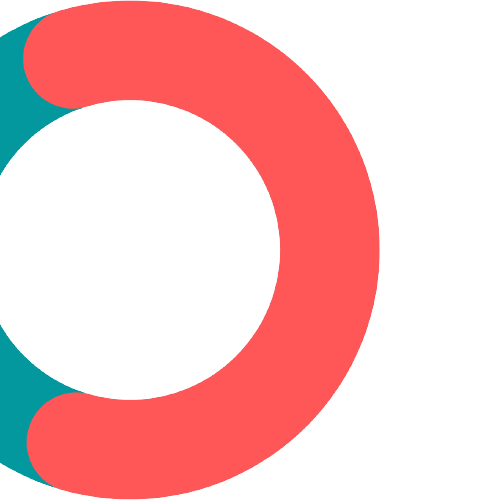
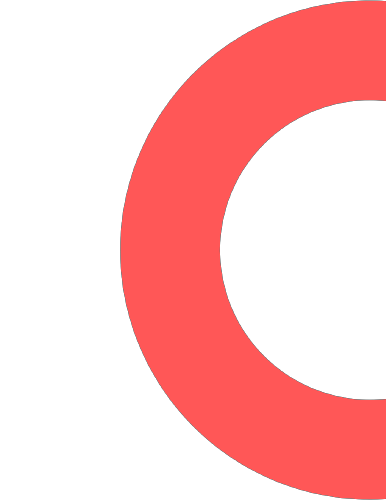
2nd step

diff --git a/index.html b/index.html
@@ -30,7 +30,7 @@
         </div>
     </section>
 
-    <section class="2nd-banner">
+    <section class="next-banner">
         <div class="half-1st">
             <img src="image/2ndbg.png" alt="">
         </div>

diff --git a/style.css b/style.css
@@ -43,7 +43,9 @@ section {
     background-repeat: no-repeat;
 }
 
-.2nd-banner {
+.next-banner {
     background-image: url(image/2bnnr.png);
+    background-repeat: no-repeat;
+    background-position: right;
 
 }
